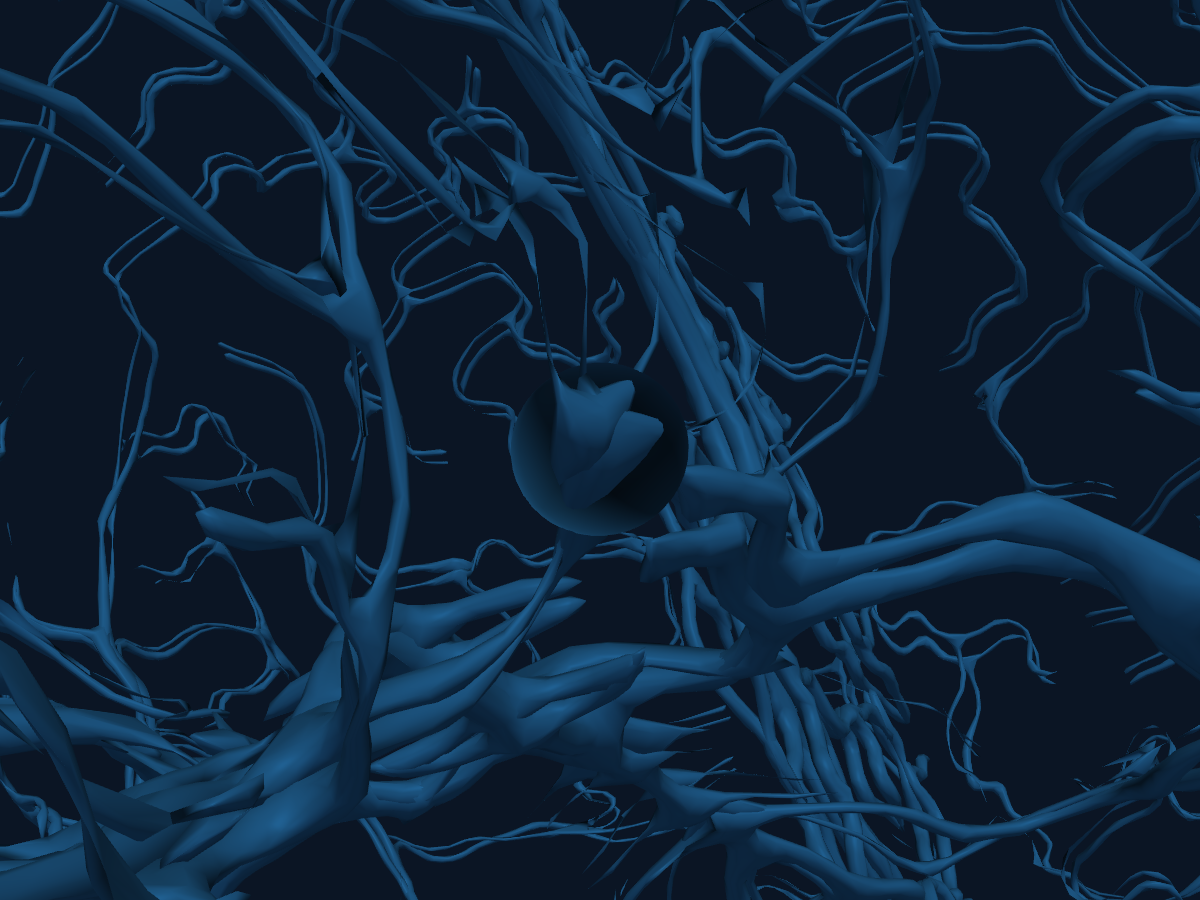
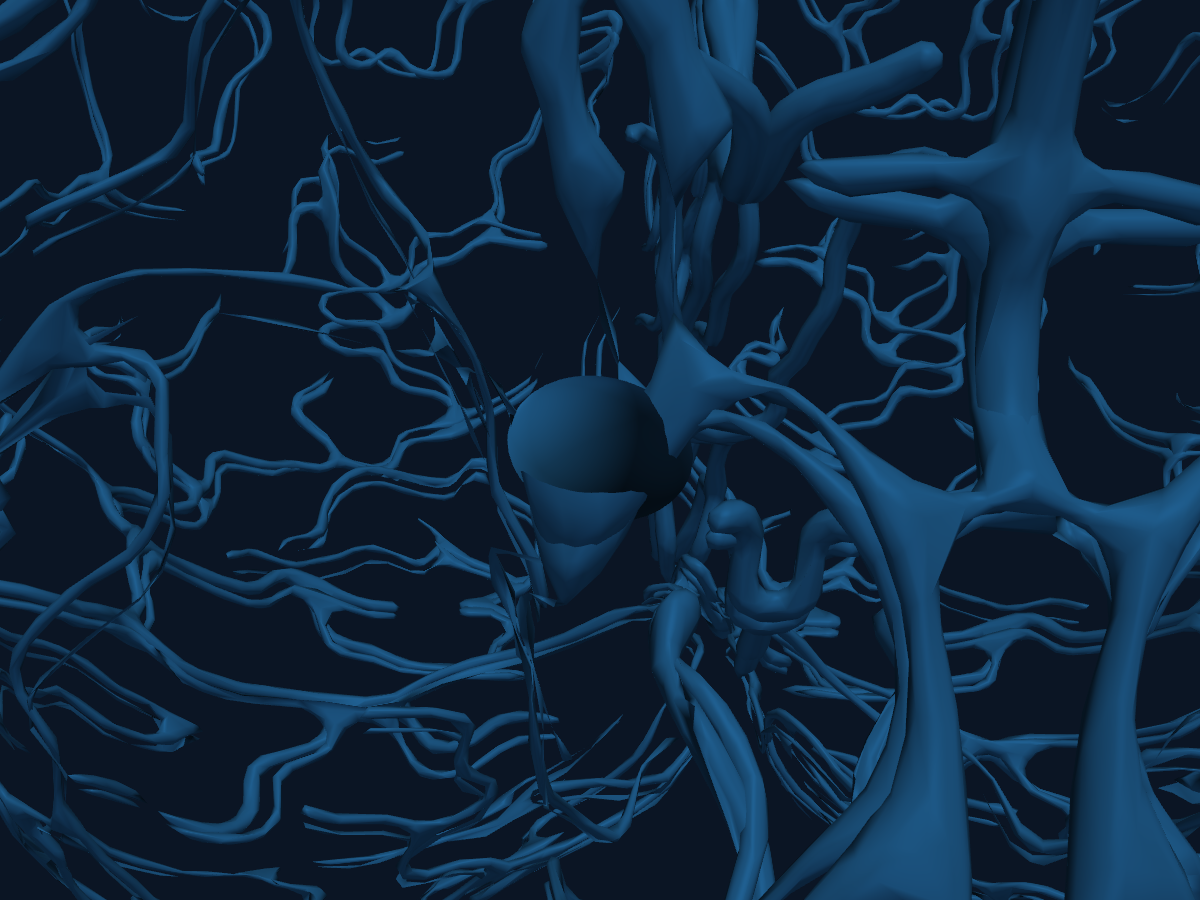
fix(3d): view the sac in profile, and render fallbacks for every case
TWO PROBLEMS, BOTH FOUND BY LOOKING AT THE OUTPUT

1. Aspect ratio was invisible. The camera sat on the sac's own outward axis —
   exactly the axis the dome is elongated along — so the elongation projected
   to nothing. PT-2025-0041 (8.4 mm wide, 12.35 mm tall, AR 2.1) rendered
   indistinguishable from a squat sac of the same width, hiding one of the four
   components of the composite risk score. The camera now sits ~30 degrees off
   side-on, where the dome's height still projects at ~87% of true length.

2. Only the three computed cases had fallback images. A browser that cannot
   create a WebGL context falls back for EVERY case, not just the solved ones,
   so the three demonstration cases showed an empty panel. All six now render.

The demo cases' data lives in app.js rather than a JSON file; the extraction
command is recorded in render_brain.py so the images can be regenerated.

diff --git a/neuro3d.js b/neuro3d.js
@@ -209,7 +209,7 @@ function buildSac(patient, mode) {
     // Aim at the sac, not the anatomical site: the sac sits outboard of the
     // site by its own half-height, so targeting the site would frame each case
     // differently depending on how tall its dome is.
-    focusOn(sacMesh.position.clone());
+    focusOn(sacMesh.position.clone(), OUT);
 
     // Publish the numbers the sac was built from. Stating them beside the
     // render is what lets a viewer check the picture against the data rather
@@ -257,15 +257,25 @@ function disposeSac() {
  * make every aneurysm fill the same fraction of the screen and silently cancel
  * the size difference between cases — the one thing this view exists to show.
  */
-function focusOn(centre) {
+function focusOn(centre, outward) {
     if (!controls || !camera) return;
-    const dist = VIEW_DISTANCE;
-    const dirOut = centre.clone().normalize();
-    // Offset slightly above the outward axis so the sac is seen against the
-    // network rather than end-on.
-    const eye = centre.clone().add(
-        dirOut.multiplyScalar(dist)).add(new THREE.Vector3(0, 0.12 * dist, 0));
-    camera.position.copy(eye);
+
+    // Deliberately NOT along `outward`. The sac is elongated along that axis by
+    // its aspect ratio, so looking down it foreshortens the elongation to zero
+    // and a tall 12.35 mm dome renders indistinguishable from a squat one —
+    // hiding one of the four components of the risk score. Viewing mostly
+    // side-on shows the dome in profile so its height is legible.
+    const out = outward.clone().normalize();
+    let up = new THREE.Vector3(0, 0, 1);
+    if (Math.abs(out.dot(up)) > 0.9) up.set(1, 0, 0);
+    const perp = new THREE.Vector3().crossVectors(out, up).normalize();
+
+    // ~30 degrees off pure side-on: enough obliquity to read as 3D, little
+    // enough that the dome's height still projects at ~87% of its true length.
+    const dir = perp.multiplyScalar(Math.cos(Math.PI / 6))
+        .add(out.multiplyScalar(Math.sin(Math.PI / 6))).normalize();
+
+    camera.position.copy(centre).addScaledVector(dir, VIEW_DISTANCE);
     controls.target.copy(centre);
     controls.update();
 }

diff --git a/services/worker/pipeline/render_brain.py b/services/worker/pipeline/render_brain.py
@@ -13,8 +13,23 @@ Two jobs:
 
 The mirroring is deliberate and load-bearing: if these two drift apart, the
 fallback stops showing what the interactive view shows. The constants and the
-displacement formula below must stay in step with `applyBulge` in neuro3d.js.
-The same discipline already applies to risk.ts / composite.py.
+sac construction below must stay in step with `buildSac` in neuro3d.js; a test
+asserts the shared constants against the JS source directly.
+
+REGENERATING
+  # the three solved cases
+  python render_brain.py
+  # the three demonstration cases, whose data lives in app.js rather than in a
+  # JSON file — extract it first:
+  node -e "const fs=require('fs'),s=fs.readFileSync('app.js','utf8'),
+    a=s.indexOf('const patientDatabase = {'),o=s.indexOf('{',a);
+    let d=0,i=o; for(;i<s.length;i++){if(s[i]=='{')d++;else if(s[i]=='}'){d--;if(!d){i++;break}}}
+    fs.writeFileSync('.demo-patients.json',JSON.stringify(
+      {patients:Object.values(eval('('+s.slice(o,i)+')'))},null,1))"
+  python render_brain.py --patients ../../../.demo-patients.json
+
+Every case needs an image: a browser with hardware acceleration disabled shows
+the fallback for ALL of them, not just the computed ones.
 """
 
 from __future__ import annotations
@@ -100,6 +115,33 @@ def sac_params(meta: dict[str, Any], patient: dict[str, Any], mode: str) -> dict
     }
 
 
+def _view_offset(outward: np.ndarray) -> np.ndarray:
+    """
+    Camera offset from the sac centre. Mirrors focusOn() in neuro3d.js.
+
+    Deliberately NOT along `outward`. The sac is elongated along that axis by
+    its aspect ratio, so looking down it foreshortens the elongation to zero
+    and a tall 12.35 mm dome renders indistinguishable from a squat one —
+    hiding one of the four components of the risk score. Viewing mostly
+    side-on, with a slight tilt toward the outward side, shows the dome in
+    profile so its height is legible.
+    """
+    out = outward / (np.linalg.norm(outward) or 1.0)
+
+    # Any unit vector perpendicular to `out`. Cross with world up unless `out`
+    # is nearly parallel to it, in which case use X instead.
+    up = np.array([0.0, 0.0, 1.0])
+    if abs(float(np.dot(out, up))) > 0.9:
+        up = np.array([1.0, 0.0, 0.0])
+    perp = np.cross(out, up)
+    perp = perp / (np.linalg.norm(perp) or 1.0)
+
+    # ~30 degrees off pure side-on: enough obliquity to read as 3D, little
+    # enough that the dome's height still projects at ~87% of its true length.
+    direction = perp * np.cos(np.pi / 6) + out * np.sin(np.pi / 6)
+    return direction / (np.linalg.norm(direction) or 1.0) * VIEW_DISTANCE
+
+
 def _align_z_to(points: np.ndarray, target: np.ndarray) -> np.ndarray:
     """
     Rotate points so the local +Z axis lands on `target`.
@@ -168,10 +210,8 @@ def render(
     # of the site, so targeting the site leaves it off-centre by an amount that
     # varies with its own height — different framing for every case.
     C = np.asarray(info["centre"], dtype=float)
-    dist = VIEW_DISTANCE
-    d = C / (np.linalg.norm(C) or 1.0)
     pl.camera.focal_point = tuple(C)
-    pl.camera.position = tuple(C + d * dist + np.array([0.0, 0.12 * dist, 0.0]))
+    pl.camera.position = tuple(C + _view_offset(np.asarray(info["outward"], dtype=float)))
     pl.camera.up = (0.0, 0.0, 1.0)
 
     out_png.parent.mkdir(parents=True, exist_ok=True)
